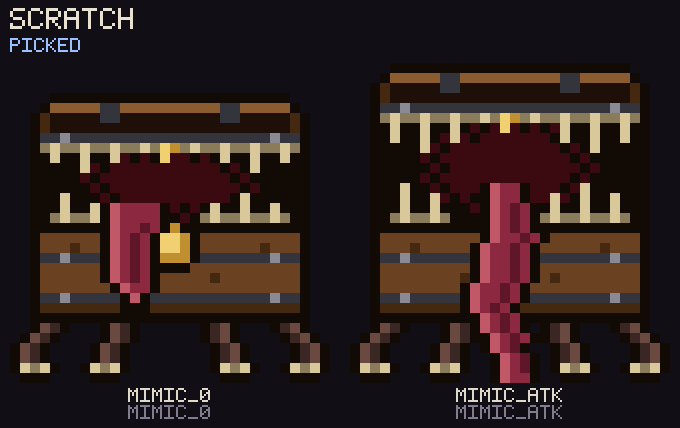
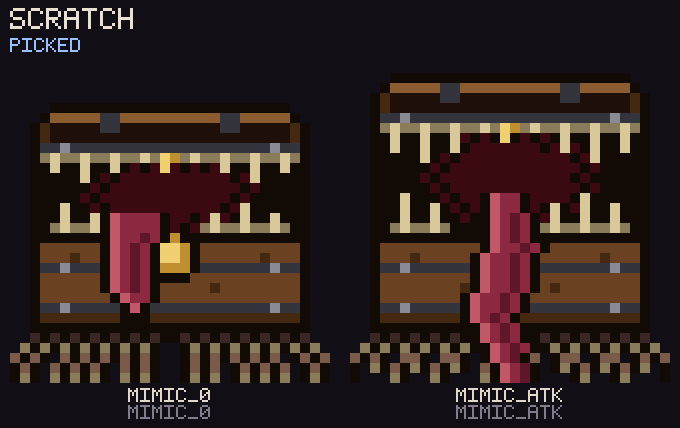
Mimic on centipede legs
Seven small jointed legs a side along the bottom of the box, fanned out at
the ends. On the attack every other one is lifted mid-step, so the two
frames scuttle. It replaces the four crouched legs. Docs, Patch 86 text
and the preview sheets follow.

Claude-Session: https://claude.ai/code/session_01PN4WJcu7AgUqkFZr6MNgbp

Changed region(s): [[0.0, 0.243, 0.9882, 0.9112], [0.5559, 0.1519, 0.9574, 0.3949], [0.5868, 0.4252, 0.6176, 0.4556]]

diff --git a/src/data/patches.ts b/src/data/patches.ts
@@ -13,7 +13,7 @@ export interface Patch {
 }
 
 export const PATCHES: Patch[] = [
-  { n: 86, hash: "bc4c72dca7afa9c69cc252a18a161c000fb60c60", short: "bc4c72d", date: "2026-09-25", title: "Art round four: a clearer Seraph, sharper tells, busier floors", summary: "The Bog Seraph is a frog seen from below, spread-eagled inside a bone-gold halo, with feathers full of eyes, and it reads from across the room. Your Shade is a dark, faceless figure of its own, holding the weapon and shield you have equipped, where it used to be a pale Hollow Knight. Chests have two iron straps down the lid. A mimic still has its two nails, now with the tip of a tongue caught in the seam, and if you stand and watch one, every few seconds its lid lifts as it breathes. Once it wakes, a mimic is all mouth: fangs on the lid and the rim, a red throat, a fat tongue, and four short jointed legs. Delver moles have a real snout and three big claws a hand, and open their mouths when they lunge. A Spore hunter keeps its tongue in until it strikes, then its gills puff glowing spores. Ossuary floors now show the odd grave lid or drain grate, and the Deep Mines the odd pile of copper spoil or a dropped pick. Material icons are redrawn as the things they are, and ore now looks like ore. Every potion and scroll has its own icon, and no two materials share a colour any more.", tags: ["art", "dungeon"], also: ["5e5df91", "bb59e65", "190d93f", "5c38716", "6cfee36", "744f2a8", "f863c3c", "84bf611", "abe8818", "a7166d9", "d917d18", "68abd28", "447ccb6", "a248bb6"], details: ["When the Seraph attacks, its halo flares white, every eye opens red and its throat swells.", "About one floor tile in eight has something on it; most stay plain.", "No save change."] },
+  { n: 86, hash: "bc4c72dca7afa9c69cc252a18a161c000fb60c60", short: "bc4c72d", date: "2026-09-25", title: "Art round four: a clearer Seraph, sharper tells, busier floors", summary: "The Bog Seraph is a frog seen from below, spread-eagled inside a bone-gold halo, with feathers full of eyes, and it reads from across the room. Your Shade is a dark, faceless figure of its own, holding the weapon and shield you have equipped, where it used to be a pale Hollow Knight. Chests have two iron straps down the lid. A mimic still has its two nails, now with the tip of a tongue caught in the seam, and if you stand and watch one, every few seconds its lid lifts as it breathes. Once it wakes, a mimic is all mouth: fangs on the lid and the rim, a red throat, a fat tongue, and rows of little centipede legs. Delver moles have a real snout and three big claws a hand, and open their mouths when they lunge. A Spore hunter keeps its tongue in until it strikes, then its gills puff glowing spores. Ossuary floors now show the odd grave lid or drain grate, and the Deep Mines the odd pile of copper spoil or a dropped pick. Material icons are redrawn as the things they are, and ore now looks like ore. Every potion and scroll has its own icon, and no two materials share a colour any more.", tags: ["art", "dungeon"], also: ["5e5df91", "bb59e65", "190d93f", "5c38716", "6cfee36", "744f2a8", "f863c3c", "84bf611", "abe8818", "a7166d9", "d917d18", "68abd28", "447ccb6", "a248bb6"], details: ["When the Seraph attacks, its halo flares white, every eye opens red and its throat swells.", "About one floor tile in eight has something on it; most stay plain.", "No save change."] },
   { n: 85, hash: "41d9818761be06533a12c1256d2f9ca4a4733501", short: "41d9818", date: "2026-09-25", title: "Art round three: rats, doors, the Big Toe", summary: "Giant rats look like rats, with a humped back, big ears, whiskers and a tail. Iron doors look like doors, with straps, hinges, a spy-hole and a pull ring. The Big Toe has a nail and a handle. Smashed urns leave a jagged half standing, and the Sporegrove floor has bare earth and moss among the puddles.", tags: ["art", "dungeon"], also: ["2413043", "52ef700", "41b78dc", "34b90e2", "329eee6"], details: ["This changes every iron door, including the locked ones and the Ashen Throne's fog gate.", "The Big Toe still takes on the colour of what it's made from.", "No save change."] },
   { n: 84, hash: "003c1797db8d23b19d2f4a5b3b787f5d6a762788", short: "003c179", date: "2026-09-25", title: "Tilt stops strafing on its own, and a Main menu button", summary: "On some phones tilt mistook leaning the phone back towards you for rolling it, and strafed one way without stopping. It now checks which way the screen really faces, and whatever angle you hold the phone at when a delve starts or you unpause counts as level. Settings shows what tilt is reading right now. Settings also has a Main menu button, in town and mid-delve; your delve is saved and Resume delve picks it up where you left it.", tags: ["mobile", "saves"] },
   { n: 83, hash: "c200a8ca0ce98f4a3d80c7943908097babc0b1ad", short: "c200a8c", date: "2026-09-25", title: "Update without leaving the delve", summary: "When a new version comes out mid-delve, a small Update button now appears under your depth. Tap it when it suits you: your delve is saved, the new version loads, and you are back where you stood. It never reloads by itself in the dungeon. Out of a delve the update still happens on its own after a few seconds, and its banner now fits a phone screen.", tags: ["mobile", "saves"] },

diff --git a/src/art/props.ts b/src/art/props.ts
@@ -102,13 +102,16 @@ const CHEST_MIMIC_IN = stamp(sym([
 // Awake, the chest is all mouth. The lid is the upper jaw and the box's rim
 // the lower, both lined with uneven fangs (one of them gold), round a throat
 // that glows a dull red. A fat tongue lolls over the rim beside the lock. It
-// crouches on four short jointed legs, knees out like a crab's. On the attack the lid gapes higher, the fangs lengthen and the
+// runs on a centipede's legs, seven small jointed ones a side along the bottom
+// of the box, fanned out at the ends; on the attack every other one is lifted
+// mid-step, so it scuttles. On the attack the lid gapes higher, the fangs lengthen and the
 // tongue lashes down to the floor. No eyes: nothing to it is a face.
 const MIMIC_PAL = {
   ...CHEST_PAL,
-  u: '#8a7c5a', p: '#c05868', o: '#5e1628', M: '#3a0a10', L: '#3a2622', l: '#6a4a40',
+  u: '#8a7c5a', p: '#c05868', o: '#5e1628', M: '#3a0a10', L: '#3a2622', l: '#7a5a48',
 };
 const MIMIC_IDLE = rows(`
+  ................................
   ................................
   ................................
   ................................
@@ -118,13 +121,13 @@ const MIMIC_IDLE = rows(`
   ..kyqqqqqqqqqqqqqqqqqqqqqqqqyk..
   ..kiiniiiiiiiiiiiiiiiiiiiiniik..
   ..kutuutuutuutuhgutuutuutuutuk..
-  ..kktkktkktMkMkhMMkMktkktkktkk..
-  ..kkkkktMkMMMMMMMMMMMkMktkkkkk..
-  ..kkkkkMkMMMMMMMMMMMMMkMkkkkkk..
+  ..kktkktkktkMkMhMkMkMtkktkktkk..
+  ..kkkkktkMkMMMMMMMMMMMkMtkkkkk..
   ..kkkkkkMkMMMMMMMMMMMMMkMkkkkk..
-  ..kkktkkkMkMMMMMMMMMMMktkkkkkk..
-  ..kkktkktkpmmmmkMkMktkktkktkkk..
-  ..kkutuutkpmmmmkkMkutuutuutukk..
+  ..kkkkkMkMMMMMMMMMMMMMkMkkkkkk..
+  ..kkktkkMkMMMMMMMMMMMkMtkkkkkk..
+  ..kkktkktkpmmmmkMMkMtMktkktkkk..
+  ..kkutuutkpmmmmkMkMutuutuutukk..
   ..kkkkkkkkpmmomkgkkkkkkkkkkkkk..
   ..kwwwwwwkpmomkhhgkwwwwwwwwwwk..
   ..kwwwywwkpmomkhhgkwwwwwwywwwk..
@@ -135,29 +138,29 @@ const MIMIC_IDLE = rows(`
   ..kiiniiiiikpkiiiiiiiiiiiiniik..
   ..kyyyyyyyykkkyyyyyyyyyyyyyyyk..
   ..kkkkkkkkkkkkkkkkkkkkkkkkkkkk..
-  ..klLk...klLk......kLlk...kLlk..
-  .klLk....klLk......kLlk....kLlk.
-  klLk....klLk........kLlk....kLlk
-  klLk....klLk........kLlk....kLlk
-  ktutk..ktutk........ktutk..ktutk
-  .kkk....kkk..........kkk....kkk.
+  ..LkLkLkLkLkLkLkkLkLkLkLkLkLkL..
+  .ukukukukukukuk..kukukukukukuku.
+  lklk.lklklklklk..klklklklkl.klkl
+  klk.lklklk.lklk..klkl.klklkl.klk
+  kuk.ukukuk.ukuk..kuku.kukuku.kuk
 `);
 const MIMIC_ATK = rows(`
+  ................................
   ....kkkkkkkkkkkkkkkkkkkkkkkk....
   ...kxxxxxiixxxxxxxxxxiixxxxxk...
   ..kyqqqqqiiqqqqqqqqqqiiqqqqqyk..
   ..kyqqqqqqqqqqqqqqqqqqqqqqqqyk..
   ..kiiniiiiiiiiiiiiiiiiiiiiniik..
   ..kutuutuutuutuhgutuutuutuutuk..
-  ..kktkktkktkMkMhMkMkMtkktkktkk..
-  ..kktkktkMtMkMMMMMMMktkktkktkk..
-  ..kkkkktMkMMMMMMMMMMMkMktkkkkk..
-  ..kkkkkMkMMMMMMMMMMMMMkMkkkkkk..
+  ..kktkktkktMkMkhkMkMktkktkktkk..
+  ..kktkktkktkMMMMMMMkMtMktkktkk..
+  ..kkkkktkMkMMMMMMMMMMMkMtkkkkk..
   ..kkkkkkMkMMMMMMMMMMMMMkMkkkkk..
   ..kkkkkMkMMMMMMMMMMMMMkMkkkkkk..
-  ..kkktkkMkMMMkpmmkMMMkMtkkkkkk..
-  ..kkktkktMkMkkpmmkMMtMktkktkkk..
-  ..kkktkktkkkMkpmomkktkktkktkkk..
+  ..kkkkkkMkMMMMMMMMMMMMMkMkkkkk..
+  ..kkktkkkMkMMkpmmkMMMMktkkkkkk..
+  ..kkktkktkMkMkpmmkMktkMtkktkkk..
+  ..kkktkktkkMkkpmomkMtkktkktkkk..
   ..kkutuutukkkkpmomkutuutuutukk..
   ..kkkkkkkkkkkkpmomkkkkkkkkkkkk..
   ..kwwwwwwwwwwkpmmomkwwwwwwwwwk..
@@ -169,12 +172,11 @@ const MIMIC_ATK = rows(`
   ..kiiniiiiikpmmomkiiiiiiiiniik..
   ..kyyyyyyyykpmomkyyyyyyyyyyyyk..
   ..kkkkkkkkkkkpmomkkkkkkkkkkkkk..
-  ..klLk...klLkpmomk.kLlk...kLlk..
-  .klLk....klLkkpmomkkLlk....kLlk.
-  klLk....klLk.kpmok..kLlk....kLlk
-  klLk....klLk..kpmok.kLlk....kLlk
-  ktutk..ktutk..kpmok.ktutk..ktutk
-  .kkk....kkk...kpmmk..kkk....kkk.
+  ..LkLkLkLkLkkpmomkkLkLkLkLkLkL..
+  .ukukukukukukkpmomkkukukukukuku.
+  lklk.llk.llk.kpmokl.kll.kll.klkl
+  k.uklkuklkuk.lkpmok.kuklkuklku.k
+  k...uk..uk...ukpmok...ku..ku...k
 `);
 
 const URN = sym(rows(`

diff --git a/docs/art-review.md b/docs/art-review.md
@@ -73,7 +73,7 @@ than the original but blotchier, not better.
 | 6 | 7 | Spore hunter | The tongue hung down all the time, so the attack only lengthened it. → At rest only the tongue's tip shows. On the lunge the gills flare and glowing spores puff out beside the body. The tongue stays: it came from the owner's reference. |
 | 4 | 7 | Your Shade (`shade_*`, `src/render/shade.ts`) | Borrowed the Hollow Knight under a pale wash, so it read as one more knight. → A faceless dark figure of its own: two cold eyes, smoking edges, legs gone by the knee, every pixel emissive so no light lifts it. It holds the weapon and shield you have equipped, composited into its hands at draw time in their materials, and those are the only clear things about it. The pale tint is gone. |
 | 7 | 7 | Chest and mimic tell (`chest*`, `mimic_*`) | Owner's pick from the round-2 proposals. → A2 lid straps: two short dark iron straps down the lid (their ends show on the open lid's rim). The tell keeps the two nails and adds one pixel of tongue in the seam, and the mimic breathes: `chest_mimic_in` lifts the lid a pixel and darkens the seam for 1.1 s every 6.5 s, per-chest phase. |
-| 7 | 8 | Awake mimic (`mimic_0`, `mimic_atk`) | The open chest with a small grin stamped over the gold, on scuffed stick legs. → All mouth: the lid is the upper jaw and the rim the lower, with uneven fangs (one gold), a dull red throat and a fat tongue over the rim. Four short hand-drawn, mirrored jointed legs, crouched with the knees out (a first pass at ten rows was too tall). No eyes. The attack gapes wider, lengthens the fangs and lashes the tongue to the floor. Same 32×32 frame and scale as before. |
+| 7 | 8 | Awake mimic (`mimic_0`, `mimic_atk`) | The open chest with a small grin stamped over the gold, on scuffed stick legs. → All mouth: the lid is the upper jaw and the rim the lower, with uneven fangs (one gold), a dull red throat and a fat tongue over the rim. Centipede legs: seven small jointed legs a side along the bottom of the box, fanned out at the ends, every other one lifted on the attack so the frames scuttle (ten-row spider legs were too tall, and four crouched ones lost the owner's centipede idea). No eyes. The attack gapes wider, lengthens the fangs and lashes the tongue to the floor. Same 32×32 frame and scale as before. |
 | 5 | 6 | Mines floor | One dirt tile everywhere. → About one tile in eight is spoil with copper chips (one glinting), rarer still a dropped pick. The shared `DIRT_ROWS` is untouched. |
 | 5 | 7 | Material icons (`ic_ingot`, `ic_plank`, `ic_cloth`, `ic_bone`, `ic_scale`, new `ic_ore` and `ic_nugget`) | Flat bars, stripes and sticks, and ore drawn as a smelted bar. → Each one is a single object that fills the cell, like the rolled hide: a heavy 3/4-view ingot with a stamp, three boards bundled with cord, a folded length of cloth with the loose end hanging, a knobbed femur, one big keeled scale. Copper and iron ore are rock with metal veins, and the gold nugget is a raw lump. Gem, shard and essence were already fine. |
 | 5 | 7 | Material colours (`src/data/materials.ts`) | Nine materials shared one placeholder lavender ramp from the crafting rework (ab0562d), and Jade/Emerald, Moonstone/Wardstone and Crystal/Frost were near twins. → Every material that shares an icon has its own colour; Jade and Moonstone got a cabochon (`ic_gem_cabochon`) and Emerald an emerald cut (`ic_gem_emerald`). The ingot became a stack of bars and the bone a thick double-knobbed femur. Gear crafted from these materials takes the new colours. |

diff --git a/patch_notes.md b/patch_notes.md
@@ -6,7 +6,7 @@
 
 **Your Shade looks like you, gone dark.** It used to borrow the Hollow Knight, washed pale blue, so it read as one more knight. Now it's a figure of its own: a faceless shape with two cold eyes, smoke coming off its edges, and its legs fading to nothing below the knee. It holds the weapon and shield you have equipped, in their materials. They are the only clear things about it, and no torch lights up the rest.
 
-**Watch the chests.** Chests have two dark iron straps down the lid. A mimic still shows its two pale nails in the lid seam, and now the very tip of a tongue beside the lock. And it breathes: every few seconds its lid lifts a hair and the seam goes dark, then it settles. You'll only see it if you stop and look. Once one wakes, it's all mouth: the lid and the rim are jaws lined with uneven fangs (one of them gold), round a throat that glows dull red, and a fat tongue lolls over the front. It crouches on four short jointed legs. When it lunges, its jaws gape wider and its tongue lashes down to the floor.
+**Watch the chests.** Chests have two dark iron straps down the lid. A mimic still shows its two pale nails in the lid seam, and now the very tip of a tongue beside the lock. And it breathes: every few seconds its lid lifts a hair and the seam goes dark, then it settles. You'll only see it if you stop and look. Once one wakes, it's all mouth: the lid and the rim are jaws lined with uneven fangs (one of them gold), round a throat that glows dull red, and a fat tongue lolls over the front. It scuttles on rows of little legs, like a centipede. When it lunges, its jaws gape wider and its tongue lashes down to the floor.
 
 **Delver moles and Spore hunters warn you.** A mole has a proper pink snout with buck teeth and three big claws on each hand, and its mouth opens under the snout when it lunges. A Spore hunter keeps its tongue tucked in until it strikes. Then its gills flare and glowing spores puff out on either side.
 

diff --git a/docs/ART.md b/docs/ART.md
@@ -207,8 +207,8 @@ From reviews of rounds 1–2:
   phase. The owner wants it noticed only by someone watching. Don't make it
   louder or faster. The sleeping mimic shares the chest's rows. The awake
   mimic (`mimic_0`/`mimic_atk`) is drawn whole and doesn't. It has no eyes
-  on purpose, and its legs are one short hand-drawn pair, mirrored: the
-  owner found ten-row legs too tall, so keep them crouched.
+  on purpose. Its legs are a centipede's: seven small ones a side, mirrored,
+  five rows at most. The owner wants many little legs, not a few tall ones.
 - **Shrines share one plinth and a per-god colour.** The colour is the tell
   from across a room, and the object on top is the tell up close.
 - **Your Shade is dressed at draw time.** `shade_0`/`shade_atk` are a bare
